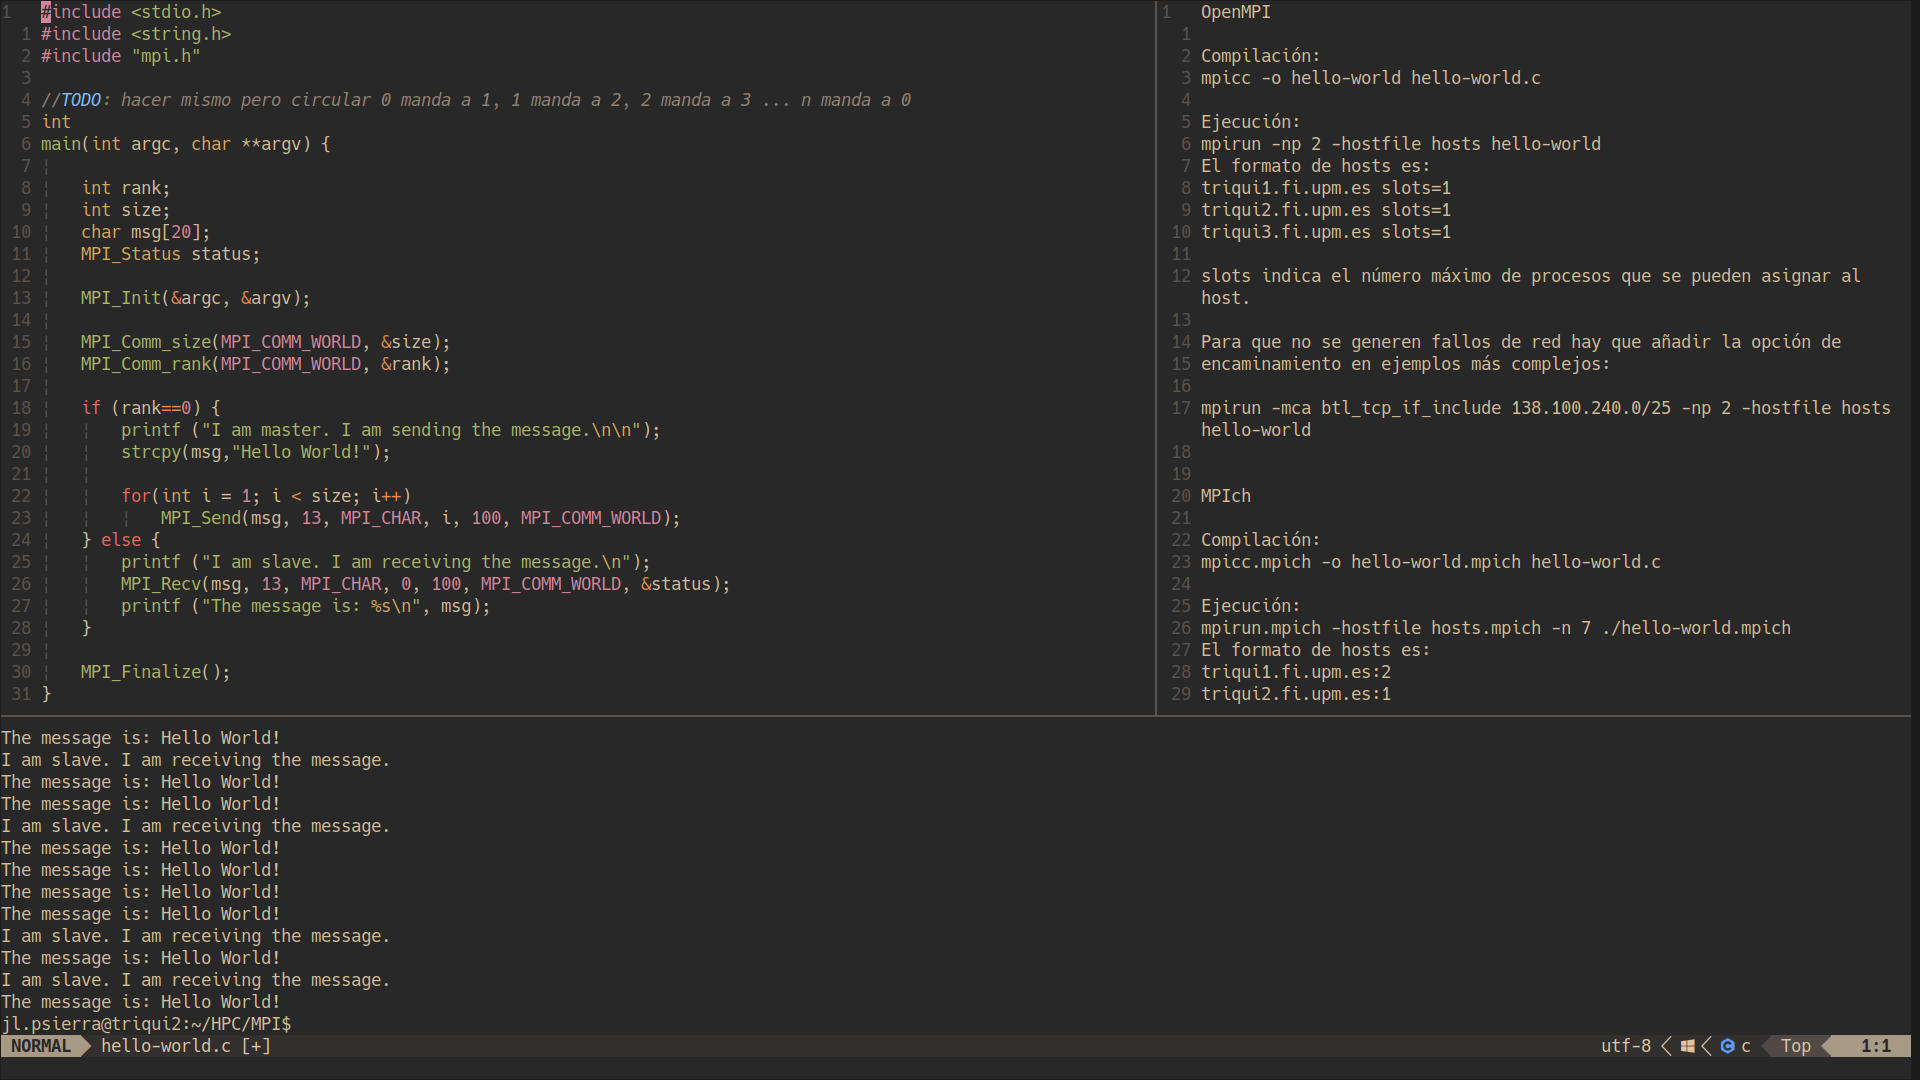
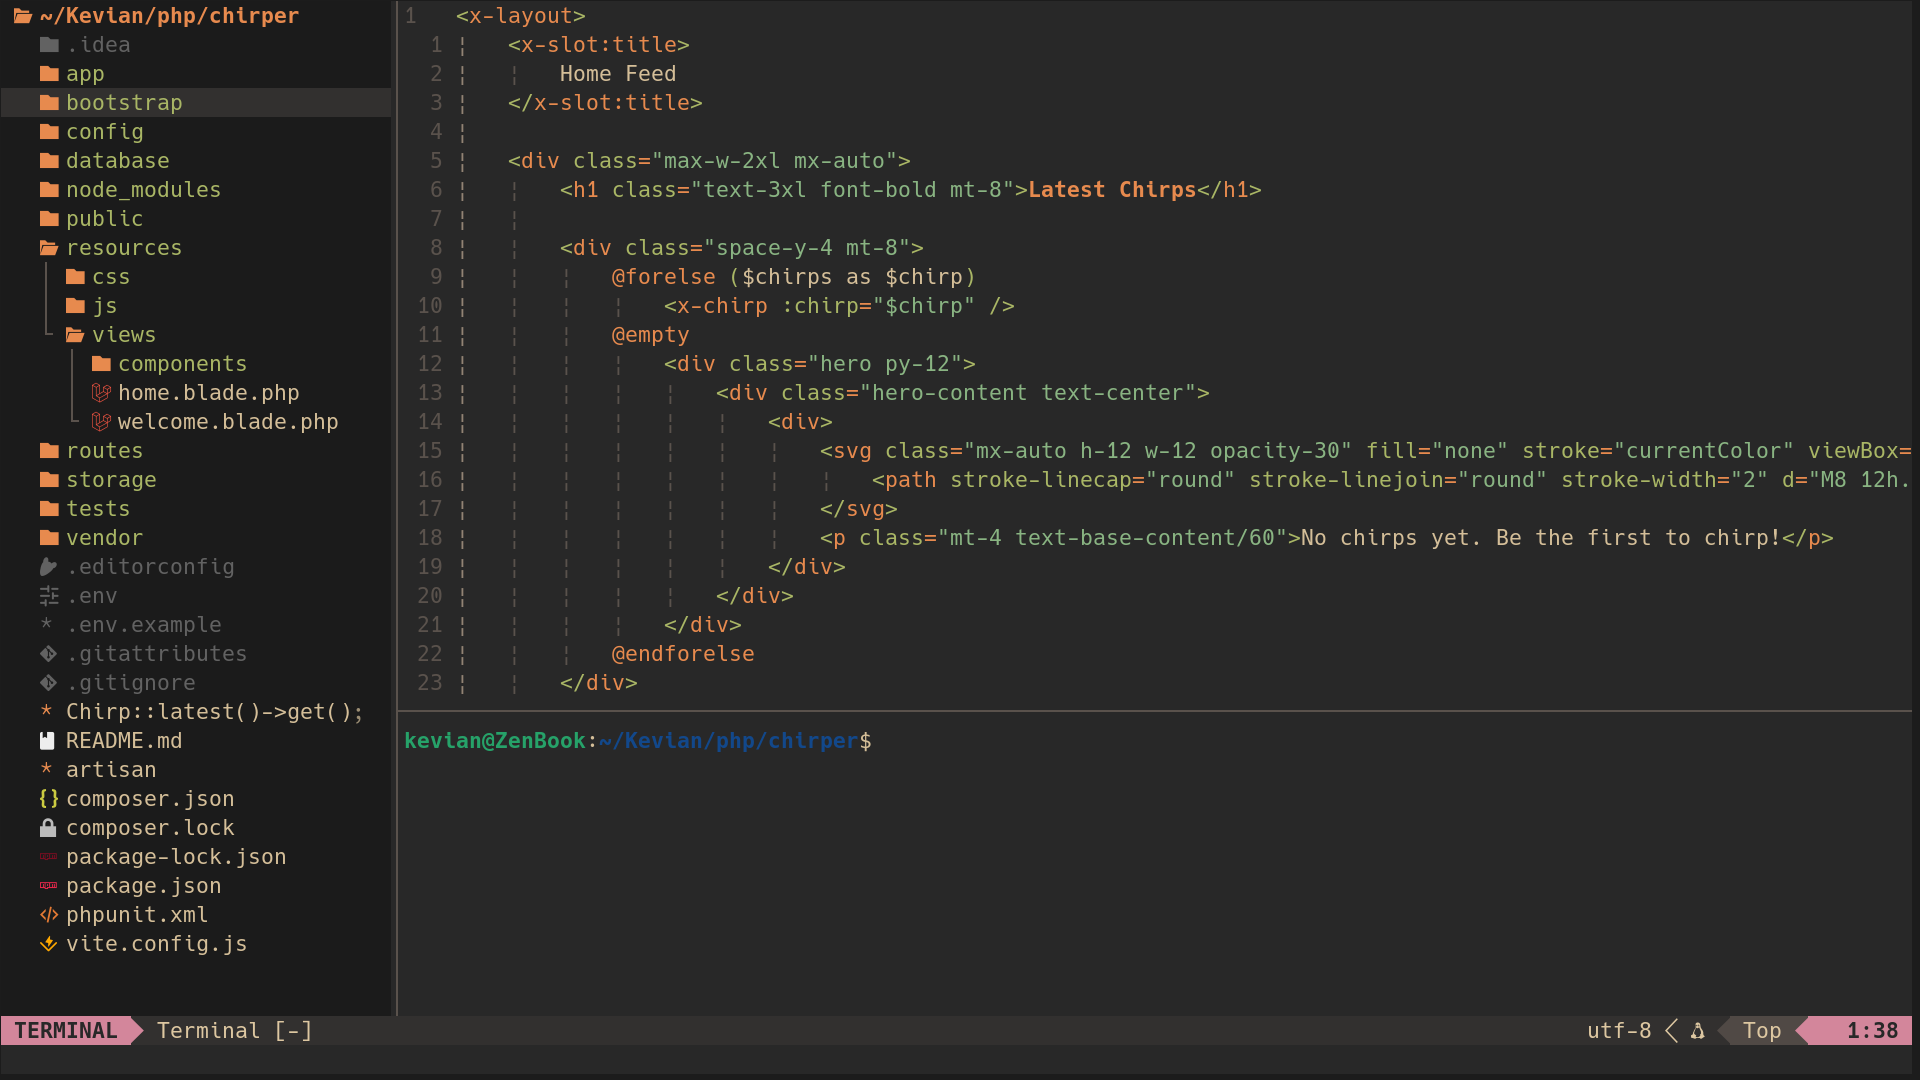
New example image

diff --git a/README.md b/README.md
@@ -132,7 +132,7 @@ end
 
 ## Screenshot
 
-Example of real working with this setup for my HPC class in university.
+Example of real working with this setup for the oficial Laravel course.
 
 ![nvim hpc](./example.png)
 
